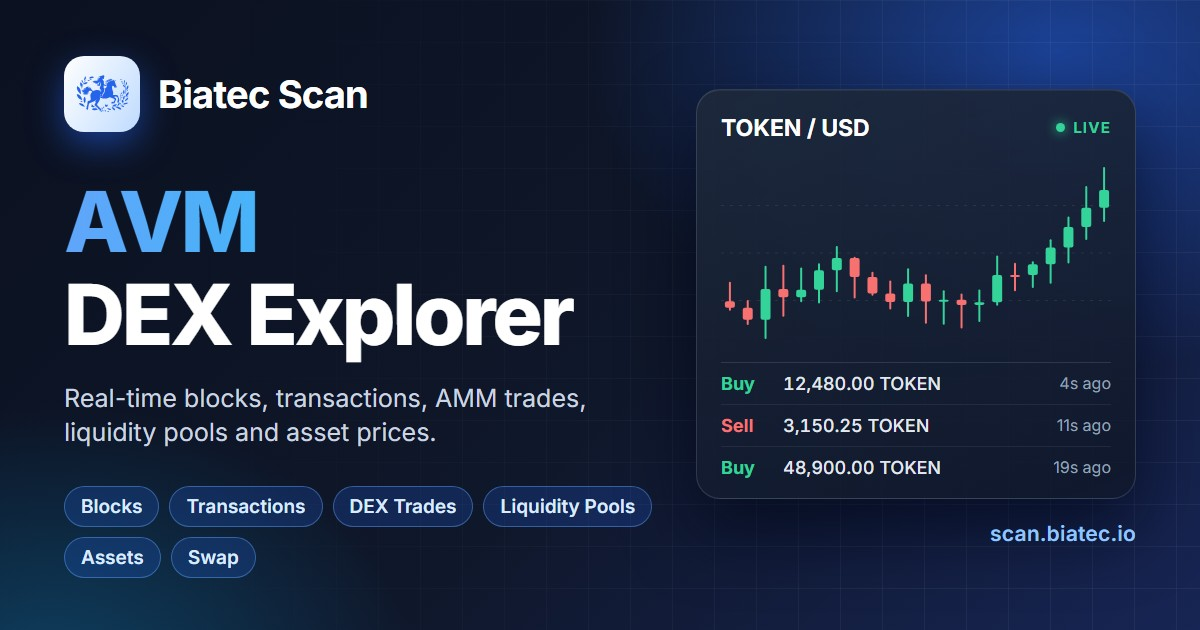
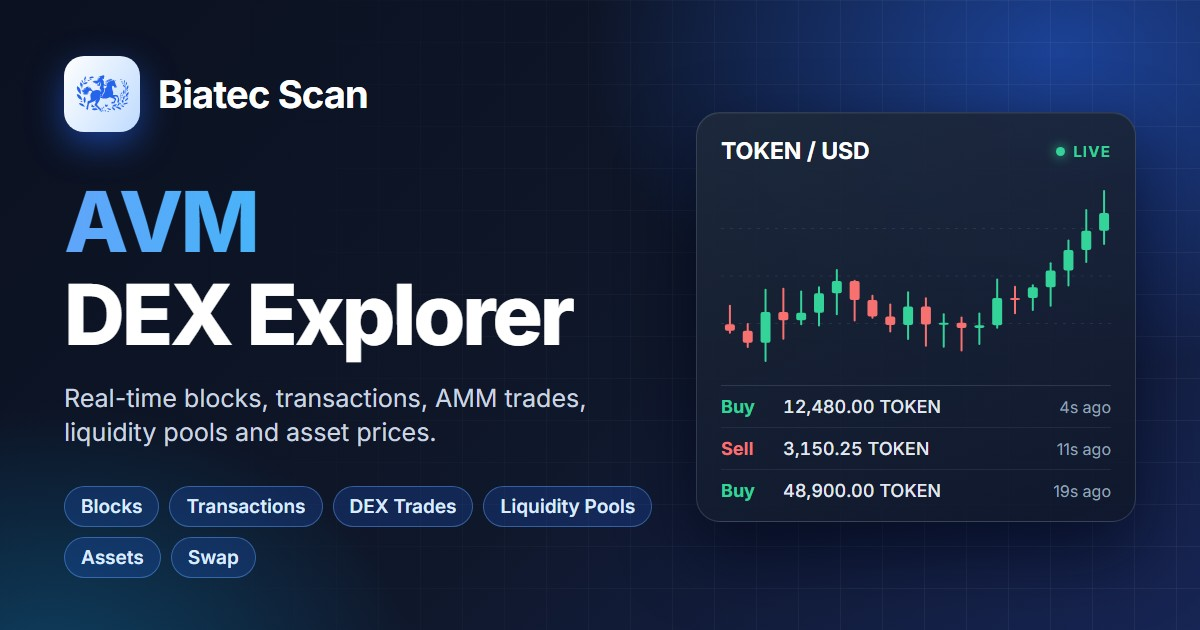
Address review round 2: robust site URL, dev-server tolerance, title escaping
- VITE_SITE_URL is validated as an absolute http(s) URL and reduced to its
  origin; the known network hosts in socialMeta.ts are the single source
  (per-network site URLs dropped from the CI matrix).
- Configuration/image problems fail production builds with an actionable
  message but only warn on the dev/preview server.
- <title> text is HTML-escaped.
- pageTitle/SITE_NAME moved to the dependency-free siteIdentity.ts so the
  browser bundle no longer imports the build-time module.
- Generator verifies a loaded Inter web-font face for every weight used;
  the network-neutral image no longer prints a host.

Changed region(s): [[0.5858, 0.1206, 0.9558, 0.573], [0.5858, 0.573, 0.8017, 0.8143], [0.8017, 0.6032, 0.9558, 0.8746]]

diff --git a/src/config/socialMeta.ts b/src/config/socialMeta.ts
@@ -3,10 +3,16 @@
 // Crawlers (X, Discord, Telegram, Slack, LinkedIn, ...) do not execute
 // JavaScript, so these tags must be in the static index.html. They are
 // injected at build time by the `socialMeta` plugin in vite.config.ts from the
-// same VITE_* variables as src/config/env.ts - which is why this module must
-// stay free of `import.meta.env` and browser APIs (it runs in Node too).
+// same VITE_* variables as src/config/env.ts. This module is build-time only
+// (Vite config, image generator, tests) - the browser bundle must not import
+// it; what both sides share lives in ./siteIdentity.
 
-import { DEFAULT_GENESIS_ID, DEFAULT_NETWORK_LABEL } from "./networkDefaults";
+import {
+  DEFAULT_GENESIS_ID,
+  DEFAULT_NETWORK_LABEL,
+  SITE_NAME,
+  pageTitle,
+} from "./siteIdentity";
 
 /** A `<head>` tag to inject; structurally compatible with Vite's HtmlTagDescriptor. */
 export interface HeadTag {
@@ -20,7 +26,7 @@ export interface HeadTag {
 export interface SocialMetaEnv {
   VITE_NETWORK_LABEL?: string;
   VITE_GENESIS_ID?: string;
-  /** Public origin of the deployment; optional for the networks listed below. */
+  /** Public origin of the deployment; only needed for networks not listed below. */
   VITE_SITE_URL?: string;
 }
 
@@ -35,7 +41,11 @@ export interface OgImageVariant {
   slug: string;
   /** Network name shown in the headline. */
   label: string;
-  /** Host shown in the image footer. */
+  /**
+   * Production host of the network's deployment: shown in the image footer
+   * and the default origin of the image URL. Empty for the network-neutral
+   * image, which names no deployment.
+   */
   host: string;
   /** Native token ticker used in the decorative market card. */
   unit: string;
@@ -49,11 +59,15 @@ export const OG_IMAGE_TYPE = "image/jpeg";
 export const defaultOgImageVariant: OgImageVariant = {
   slug: "default",
   label: "AVM",
-  host: "scan.biatec.io",
+  host: "",
   unit: "TOKEN",
 };
 
-/** Share image variants keyed by the genesis id of the network they depict. */
+/**
+ * Share image variants keyed by the genesis id of the network they depict.
+ * `host` is the single source of the production origin used in link previews
+ * (keep in sync with the ingress host in k8s/<network>/deployment-fe.yaml).
+ */
 export const ogImageVariants: Record<string, OgImageVariant> = {
   "mainnet-v1.0": {
     slug: "algorand",
@@ -94,13 +108,6 @@ export function ogImageVariantFor(env: SocialMetaEnv): OgImageVariant {
   );
 }
 
-const SITE_NAME = "Biatec Scan";
-
-/** Page title; also set at runtime by src/main.ts. */
-export function pageTitle(networkLabel: string): string {
-  return `${networkLabel} Explorer - ${SITE_NAME}`;
-}
-
 export function pageDescription(networkLabel: string): string {
   return (
     `${SITE_NAME} is a real-time ${networkLabel} DEX explorer: blocks, ` +
@@ -111,16 +118,29 @@ export function pageDescription(networkLabel: string): string {
 
 /**
  * Public origin the absolute image URL is built on: VITE_SITE_URL, or for a
- * known network its own production host. An unknown network without
- * VITE_SITE_URL is an error rather than a silent fallback to another
- * deployment's host, which would point its previews at the wrong site.
+ * known network its own production host. Throws - rather than silently
+ * emitting a broken or wrong-host URL - when VITE_SITE_URL is not an absolute
+ * http(s) URL, or when it is unset for a network without a known host.
  */
-function siteUrlFor(env: SocialMetaEnv, variant: OgImageVariant): string {
+function siteOriginFor(env: SocialMetaEnv, variant: OgImageVariant): string {
   if (env.VITE_SITE_URL) {
-    // Strip trailing slashes so the path join can't produce "//og/...".
-    return env.VITE_SITE_URL.replace(/\/+$/, "");
+    let url: URL | undefined;
+    try {
+      url = new URL(env.VITE_SITE_URL);
+    } catch {
+      // not parseable as an absolute URL - reported below
+    }
+    if (!url || (url.protocol !== "https:" && url.protocol !== "http:")) {
+      throw new Error(
+        `VITE_SITE_URL must be an absolute http(s) URL such as ` +
+          `https://algorand.scan.biatec.io, got "${env.VITE_SITE_URL}".`,
+      );
+    }
+    // The app is served from the root of its host, so only the origin
+    // matters; this also drops any trailing slash, path or query.
+    return url.origin;
   }
-  if (variant === defaultOgImageVariant) {
+  if (!variant.host) {
     throw new Error(
       `VITE_SITE_URL must be set for network "${env.VITE_GENESIS_ID}": the ` +
         `og:image / twitter:image tags need the deployment's public origin ` +
@@ -128,6 +148,14 @@ function siteUrlFor(env: SocialMetaEnv, variant: OgImageVariant): string {
     );
   }
   return `https://${variant.host}`;
+}
+
+/** Vite escapes injected tag attributes but not tag children. */
+function escapeHtml(text: string): string {
+  return text
+    .replace(/&/g, "&amp;")
+    .replace(/</g, "&lt;")
+    .replace(/>/g, "&gt;");
 }
 
 /**
@@ -156,7 +184,7 @@ export function buildSocialMetaTags(
   const title = pageTitle(networkLabel);
   const description = pageDescription(networkLabel);
   const image =
-    `${siteUrlFor(env, variant)}/og/${ogImageFileName(variant)}` +
+    `${siteOriginFor(env, variant)}/og/${ogImageFileName(variant)}` +
     (imageVersion ? `?v=${imageVersion}` : "");
   const imageAlt = `${SITE_NAME} - ${networkLabel} DEX explorer`;
 
@@ -171,7 +199,7 @@ export function buildSocialMetaTags(
   });
 
   return [
-    { tag: "title", children: title, injectTo: "head" },
+    { tag: "title", children: escapeHtml(title), injectTo: "head" },
     meta("name", "description", description),
 
     meta("property", "og:type", "website"),

diff --git a/vite.config.ts b/vite.config.ts
@@ -1,5 +1,5 @@
 import { createHash } from 'node:crypto'
-import { readFileSync } from 'node:fs'
+import { existsSync, readFileSync } from 'node:fs'
 import { resolve } from 'node:path'
 import { fileURLToPath, URL } from 'node:url'
 import { defineConfig, type Plugin } from 'vite'
@@ -11,7 +11,27 @@ import {
   ogImageFileName,
   ogImageVariantFor,
   type HeadTag,
+  type SocialMetaEnv,
 } from './src/config/socialMeta'
+
+/**
+ * Tags for the network this build targets, with a content hash of its share
+ * image as the cache-buster (see buildSocialMetaTags). Throws with an
+ * actionable message if the configuration or the image is unusable.
+ */
+function socialMetaTags(env: SocialMetaEnv, publicDir: string): HeadTag[] {
+  const image = resolve(publicDir, 'og', ogImageFileName(ogImageVariantFor(env)))
+  if (!existsSync(image)) {
+    throw new Error(
+      `Share image ${image} is missing - render it with \`pnpm generate:og-images\`.`,
+    )
+  }
+  const version = createHash('sha256')
+    .update(readFileSync(image))
+    .digest('hex')
+    .slice(0, 8)
+  return buildSocialMetaTags(env, version)
+}
 
 /**
  * Injects the network-specific <title>, description, Open Graph and Twitter
@@ -26,19 +46,27 @@ function socialMeta(): Plugin {
       // config.env is the very env the bundle's import.meta.env is built
       // from (.env* files in envDir + process env, e.g. Docker build args),
       // so the HTML and the JS can't end up describing different networks.
-      const env = config.env
-      // Content hash of the share image as a cache-buster, see
-      // buildSocialMetaTags.
-      const image = resolve(
-        config.publicDir,
-        'og',
-        ogImageFileName(ogImageVariantFor(env)),
-      )
-      const version = createHash('sha256')
-        .update(readFileSync(image))
-        .digest('hex')
-        .slice(0, 8)
-      tags = buildSocialMetaTags(env, version)
+      // Picked field by field because config.env is typed Record<string, any>.
+      const read = (key: keyof SocialMetaEnv): string | undefined => {
+        const value: unknown = config.env[key] // untyped by Vite, narrowed below
+        return typeof value === 'string' ? value : undefined
+      }
+      const env: SocialMetaEnv = {
+        VITE_NETWORK_LABEL: read('VITE_NETWORK_LABEL'),
+        VITE_GENESIS_ID: read('VITE_GENESIS_ID'),
+        VITE_SITE_URL: read('VITE_SITE_URL'),
+      }
+      try {
+        tags = socialMetaTags(env, config.publicDir)
+      } catch (e: unknown) {
+        // A production build must not ship broken previews; the dev/preview
+        // server is of no interest to crawlers, so there it's only a warning
+        // (main.ts still sets the document title at runtime).
+        if (config.command === 'build') throw e
+        config.logger.warn(
+          `[social-meta] link-preview tags skipped: ${e instanceof Error ? e.message : String(e)}`,
+        )
+      }
     },
     transformIndexHtml: () => tags,
   }

diff --git a/src/config/socialMeta.test.ts b/src/config/socialMeta.test.ts
@@ -1,12 +1,11 @@
 import { statSync } from "node:fs";
 import { fileURLToPath } from "node:url";
 import { describe, expect, it } from "vitest";
-import { DEFAULT_NETWORK_LABEL } from "./networkDefaults";
+import { DEFAULT_NETWORK_LABEL, pageTitle } from "./siteIdentity";
 import {
   allOgImageVariants,
   buildSocialMetaTags,
   ogImageFileName,
-  pageTitle,
   type HeadTag,
 } from "./socialMeta";
 
@@ -86,13 +85,40 @@ describe("buildSocialMetaTags", () => {
     );
   });
 
-  it("tolerates a trailing slash on the site URL", () => {
+  it("reduces the site URL to its origin (trailing slash, path, query)", () => {
+    for (const siteUrl of [
+      "https://testnet.scan.biatec.io/",
+      "https://testnet.scan.biatec.io/app/?x=1",
+    ]) {
+      const tags = buildSocialMetaTags({
+        VITE_SITE_URL: siteUrl,
+        VITE_GENESIS_ID: "testnet-v1.0",
+      });
+      expect(content(tags, "og:image"), siteUrl).toBe(
+        "https://testnet.scan.biatec.io/og/algorand-testnet.jpg",
+      );
+    }
+  });
+
+  it("rejects a site URL that is not an absolute http(s) URL", () => {
+    for (const siteUrl of ["voi.scan.biatec.io", "ftp://voi.scan.biatec.io"]) {
+      expect(
+        () => buildSocialMetaTags({ VITE_SITE_URL: siteUrl }),
+        siteUrl,
+      ).toThrow(/VITE_SITE_URL must be an absolute http\(s\) URL/);
+    }
+  });
+
+  it("HTML-escapes the title element's text", () => {
     const tags = buildSocialMetaTags({
-      VITE_SITE_URL: "https://testnet.scan.biatec.io/",
-      VITE_GENESIS_ID: "testnet-v1.0",
+      VITE_NETWORK_LABEL: "A&B </title><script>",
     });
-    expect(content(tags, "og:image")).toBe(
-      "https://testnet.scan.biatec.io/og/algorand-testnet.jpg",
+    expect(tags.find((t) => t.tag === "title")?.children).toBe(
+      "A&amp;B &lt;/title&gt;&lt;script&gt; Explorer - Biatec Scan",
+    );
+    // Attribute values are escaped by Vite when it serialises the tag.
+    expect(content(tags, "og:title")).toBe(
+      "A&B </title><script> Explorer - Biatec Scan",
     );
   });
 

diff --git a/scripts/generate-og-images.ts b/scripts/generate-og-images.ts
@@ -252,7 +252,7 @@ function html(variant: OgImageVariant): string {
         <div class="chart">${candlesSvg(392, 190)}</div>
         <div class="rows">${rows}</div>
       </div>
-      <div class="host">${variant.host}</div>
+      ${variant.host ? `<div class="host">${variant.host}</div>` : ""}
     </div>
   </div>
 </body>
@@ -274,11 +274,23 @@ async function main(): Promise<void> {
       // worse than a failed run - verify both before taking the screenshot.
       const problem = await page.evaluate(async () => {
         await document.fonts.ready;
-        if (
-          !document.fonts.check('800 84px "Inter"') ||
-          !document.fonts.check('400 25px "Inter"')
-        ) {
-          return "the Inter web font did not load (no network access to Google Fonts?)";
+        // document.fonts holds only the @font-face rules of the Google Fonts
+        // stylesheet (never a locally installed Inter), and a face is
+        // "loaded" only once its file was fetched - so every weight the
+        // design uses must be covered by a loaded web-font face.
+        const loaded = [...document.fonts].filter(
+          (face) => /inter/i.test(face.family) && face.status === "loaded",
+        );
+        const missing = [400, 500, 600, 700, 800].filter(
+          (weight) =>
+            !loaded.some((face) => {
+              // "400" for a static face, "100 900" for a variable one.
+              const [min, max = min] = face.weight.split(" ").map(Number);
+              return min <= weight && weight <= max;
+            }),
+        );
+        if (missing.length > 0) {
+          return `the Inter web font did not load for weight(s) ${missing.join(", ")} (no network access to Google Fonts?)`;
         }
         const headline = document.querySelector(".headline");
         if (headline && headline.scrollWidth > headline.clientWidth) {

diff --git a/e2e/social-meta.spec.ts b/e2e/social-meta.spec.ts
@@ -15,7 +15,7 @@ test("served HTML carries Open Graph and Twitter Card tags", async ({
   expect(content("property", "og:title")).toBeTruthy();
   expect(content("property", "og:description")).toBeTruthy();
   expect(content("property", "og:image")).toMatch(
-    /^https:\/\/.+\/og\/.+\.jpg\?v=[0-9a-f]{8}$/,
+    /^https?:\/\/.+\/og\/.+\.jpg\?v=[0-9a-f]{8}$/,
   );
   expect(content("name", "twitter:card")).toBe("summary_large_image");
   expect(content("name", "twitter:image")).toBe(
@@ -31,7 +31,8 @@ test("the share image referenced by og:image is served as a JPEG", async ({
   expect(image).toBeTruthy();
 
   // og:image points at the production host; fetch the same path locally.
-  const response = await request.get(new URL(image ?? "").pathname);
+  const { pathname, search } = new URL(image ?? "");
+  const response = await request.get(pathname + search);
   expect(response.status()).toBe(200);
   expect(response.headers()["content-type"]).toContain("image/jpeg");
 });

diff --git a/src/config/siteIdentity.ts b/src/config/siteIdentity.ts
@@ -1,0 +1,17 @@
+// Brand name, page title and the fallbacks for the network-identity build
+// variables when they are unset (a plain local build targets Algorand
+// mainnet). Shared by the browser bundle (src/config/env.ts, src/main.ts) and
+// the build-time metadata (src/config/socialMeta.ts, run by Vite in Node), so
+// the title baked into index.html can't drift from the one set at runtime.
+// Must stay dependency-free: no `import.meta.env`, browser or Node APIs.
+
+export const SITE_NAME = "Biatec Scan";
+
+export const DEFAULT_GENESIS_ID = "mainnet-v1.0";
+
+export const DEFAULT_NETWORK_LABEL = "Algorand";
+
+/** Document title for a network, e.g. "Algorand Explorer - Biatec Scan". */
+export function pageTitle(networkLabel: string): string {
+  return `${networkLabel} Explorer - ${SITE_NAME}`;
+}

diff --git a/src/config/env.ts b/src/config/env.ts
@@ -3,7 +3,7 @@
 // than hardcoded, so a single Docker image build produces a network-specific
 // bundle (mainnet, testnet, and later voi/aramid) purely by varying these
 // env vars at build time - see docker/Dockerfile and .github/workflows.
-import { DEFAULT_GENESIS_ID, DEFAULT_NETWORK_LABEL } from "./networkDefaults";
+import { DEFAULT_GENESIS_ID, DEFAULT_NETWORK_LABEL } from "./siteIdentity";
 
 const viteEnv = import.meta.env;
 

diff --git a/src/main.ts b/src/main.ts
@@ -4,7 +4,7 @@ import App from "./App.vue";
 import router from "./router";
 import i18n from "./i18n";
 import { networkLabel } from "./config/env";
-import { pageTitle } from "./config/socialMeta";
+import { pageTitle } from "./config/siteIdentity";
 import { initTheme } from "./composables/useTheme";
 
 // The first paint is themed by public/theme-init.js; this syncs reactive state.
